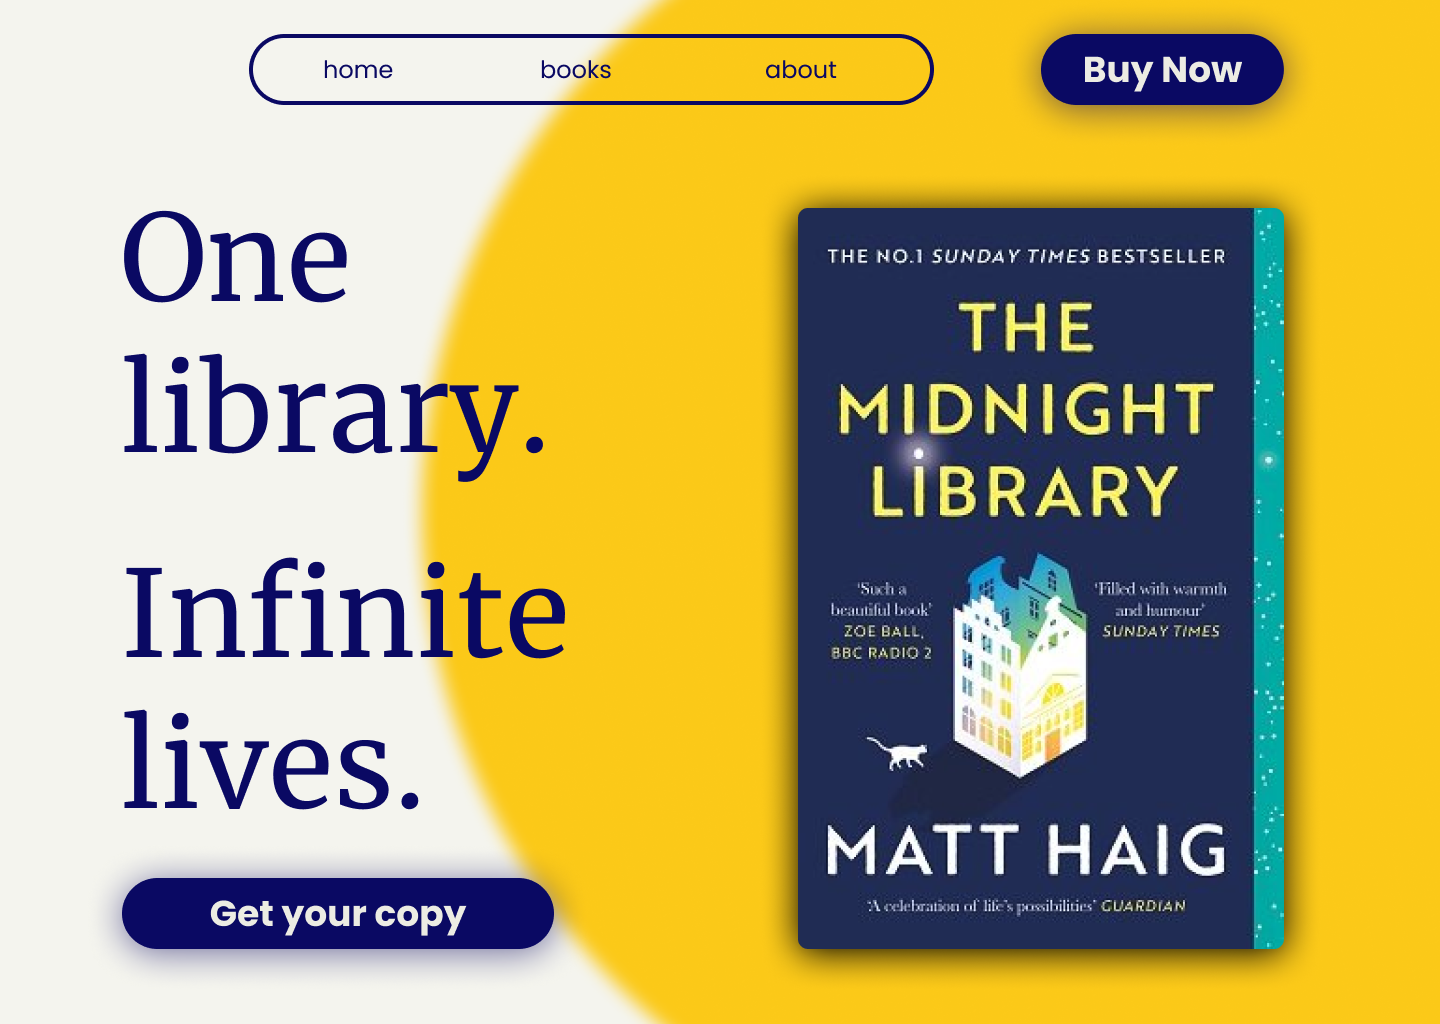
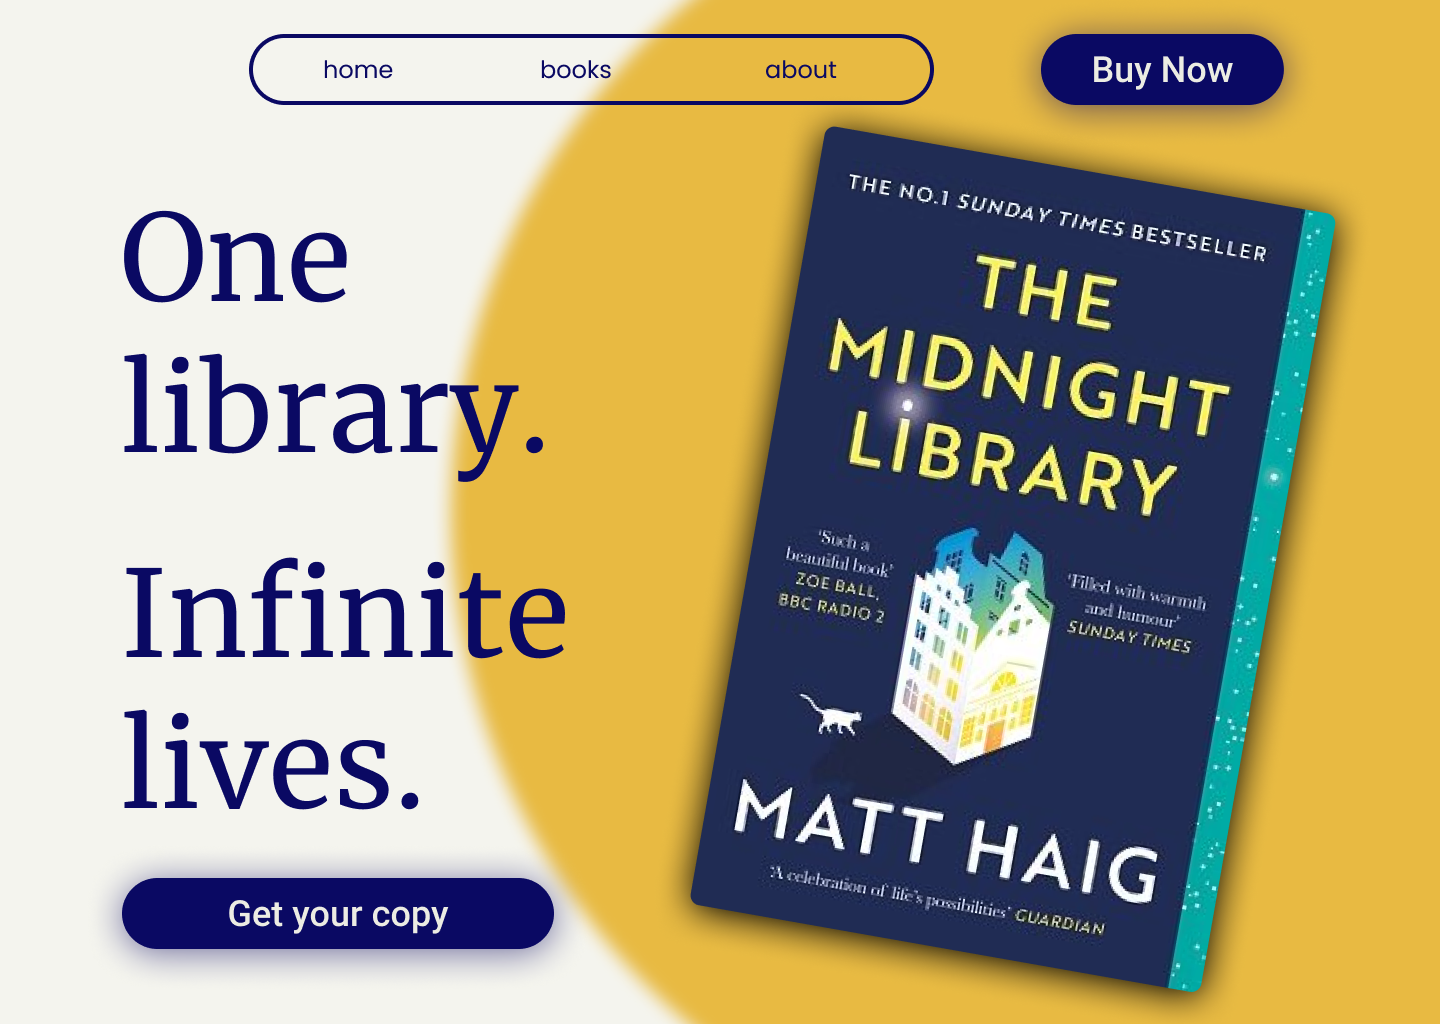
dailyui 003

diff --git a/dailyui.html b/dailyui.html
@@ -56,7 +56,9 @@
           <div class="container-fluid daily-ui-heading">
             <h1 class="green chuck-title">DAILY UI</h1>
             <h2 class="white subtitle">100 Days of UI Challenges</h2>
+            <img class="chuck-mockup" src="images/dailyui/dailyuipic.png" alt="daily-ui-signup-mockup">
           </div>
+        
       
         <section class="process">
         <div class="casestudy-heading container-fluid">
@@ -114,7 +116,16 @@
                 <div class="container-fluid">
                   <a href="https://www.figma.com/proto/k5YJPsmOgThm4tp6aJ9frV/Daily-UI-Challenges?page-id=1%3A55&node-id=4%3A54&viewport=66%2C445%2C0.1313803791999817&scaling=scale-down" target="_blank" class="chuckdesign-button">View prototype</a>
                 </div>
-                <img class="chuck-img" src="images/dailyui/dailyui002.png" alt="daily-ui-challenge-1-sign-up-mockups">
+                <img class="chuck-img" src="images/dailyui/dailyui002.png" alt="daily-ui-challenge-2-card-payment-mockups">
+              </div>
+            </div>
+            <div class="col-md-6 col-lg-6">
+              <div class="card border-secondary">
+                <div class="card-body">
+                  <h2 class="how-might">Challenge 003 - Landing Page</h2>
+                  <p>The 1 hour time limit made this challenge really difficult! It took 15 min just to decide on what product to use. I just finshed reading The Midnight Library so I went with that. I chose the yellow circle behind the book too mirror the illuminated "i" in the book title and made the call to action buttons a high contrasting blue to make them stand out.</p>
+                </div>
+                <img class="chuck-img" src="images/dailyui/dailyui003.png" alt="daily-ui-challenge-3-landing-page-the-midnight-library">
               </div>
             </div>
           </div>

diff --git a/style.css b/style.css
@@ -418,7 +418,7 @@ footer {
 
 img.chuck-img {
     margin: 0;
-    border: solid 1px black;
+    border-top: solid 1px black;
 }
 
 .overview-chuck {
